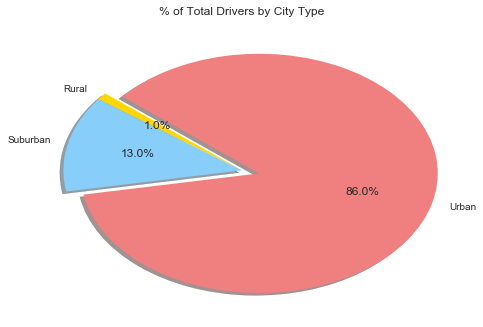
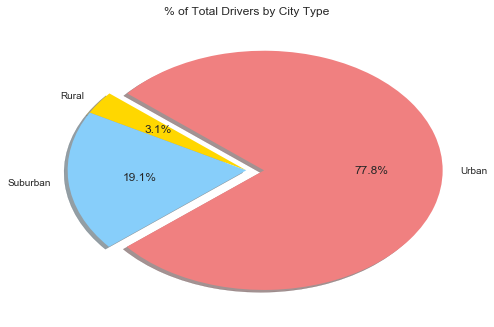
Corrected solution

diff --git a/README.md b/README.md
@@ -521,7 +521,7 @@ plt.show()
 
 
 ```python
-drivers_df = merged_pd.groupby(['type']).aggregate({'driver_count':'sum'})
+drivers_df = city_orig_pd.groupby(['type']).aggregate({'driver_count':'sum'})
 drivers_df
 ```
 
@@ -556,15 +556,15 @@ drivers_df
   <tbody>
     <tr>
       <th>Rural</th>
-      <td>727</td>
+      <td>104</td>
     </tr>
     <tr>
       <th>Suburban</th>
-      <td>9730</td>
+      <td>638</td>
     </tr>
     <tr>
       <th>Urban</th>
-      <td>64501</td>
+      <td>2607</td>
     </tr>
   </tbody>
 </table>
